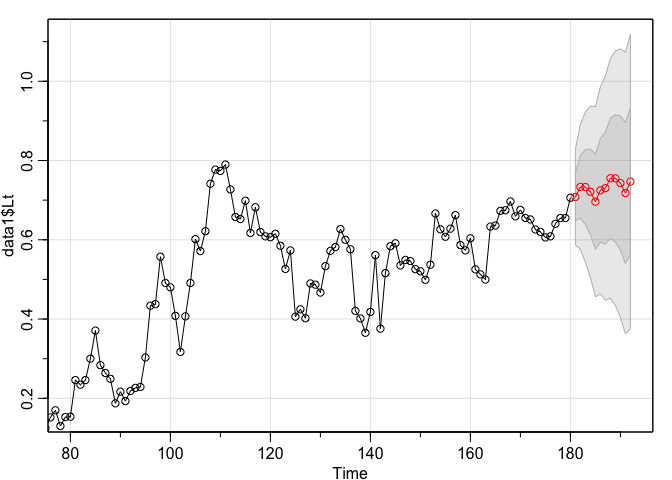
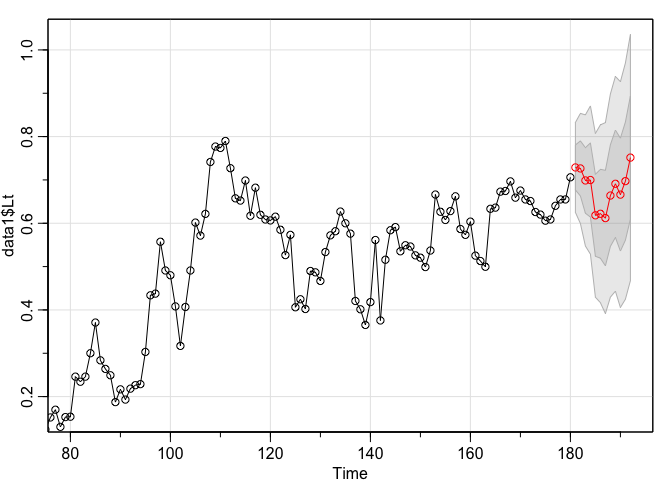
model selection added

diff --git a/TimeSeries_Analysis.md b/TimeSeries_Analysis.md
@@ -234,7 +234,7 @@ Model1: *S**A**R**I**M**A*(4, 1, 2)(0, 1, 0)<sub>12</sub>
 Model2: *S**A**R**I**M**A*(1, 1, 0)(0, 1, 1)<sub>6</sub>
 
     ## Predictions
-    sarima.for(data1$Lt, p=1, d=1, q=0, P=0, D=1, Q=1, S = 6,n.ahead = 12)
+    sarima.for(data1$Lt, p=1, d=1, q=0, P=0, D=1, Q=1, S = 12,n.ahead = 12)
 
 ![](TimeSeries_Analysis_files/figure-markdown_strict/unnamed-chunk-11-1.png)
 
@@ -243,16 +243,16 @@ Model2: *S**A**R**I**M**A*(1, 1, 0)(0, 1, 1)<sub>6</sub>
     ## Start = 181 
     ## End = 192 
     ## Frequency = 1 
-    ##  [1] 0.7079299 0.7335497 0.7331298 0.7211477 0.6960043 0.7248602 0.7303324
-    ##  [8] 0.7553687 0.7550433 0.7430459 0.7179049 0.7467605
+    ##  [1] 0.7287801 0.7265029 0.6987831 0.6997838 0.6183206 0.6218868 0.6119094
+    ##  [8] 0.6639381 0.6910919 0.6660838 0.6972301 0.7515187
     ## 
     ## $se
     ## Time Series:
     ## Start = 181 
     ## End = 192 
     ## Frequency = 1 
-    ##  [1] 0.06053351 0.07896733 0.09471306 0.10806727 0.11996188 0.13077575
-    ##  [7] 0.14152461 0.15136421 0.16061921 0.16936659 0.17768441 0.18562889
+    ##  [1] 0.05183859 0.06352890 0.07565242 0.08548983 0.09446185 0.10261111
+    ##  [7] 0.11017038 0.11724018 0.12390822 0.13023464 0.13626913 0.14204264
 
     pred_value = matrix(0, nrow = 180, ncol = 1)
 
@@ -272,3 +272,24 @@ Model2: *S**A**R**I**M**A*(1, 1, 0)(0, 1, 1)<sub>6</sub>
       geom_line(data = pred_value, aes(c.1.180., pred_value), color = "red")
 
 ![](TimeSeries_Analysis_files/figure-markdown_strict/unnamed-chunk-12-1.png)
+
+1.7 Discussion on Model selection
+---------------------------------
+
+    model1 <- sarima(data1$Lt, p=4, d=1, q=2, P=0, D=1, Q=0, S = 12)
+
+![](TimeSeries_Analysis_files/figure-markdown_strict/unnamed-chunk-13-1.png)
+
+    model2 <- sarima(data1$Lt, p=1, d=1, q=0, P=0, D=1, Q=1, S = 12)
+
+![](TimeSeries_Analysis_files/figure-markdown_strict/unnamed-chunk-13-2.png)
+
+    ICs <-sapply(list(model1, model2),function(mdl) {c(mdl$AIC, mdl$AICc, mdl$BIC)})
+    colnames(ICs) <-paste0("Model", 1:2)
+    rownames(ICs) <-c('AIC','AICc','BIC')
+    ICs
+
+    ##         Model1    Model2
+    ## AIC  -2.272251 -2.738971
+    ## AICc -2.269491 -2.738586
+    ## BIC  -2.149633 -2.686421
